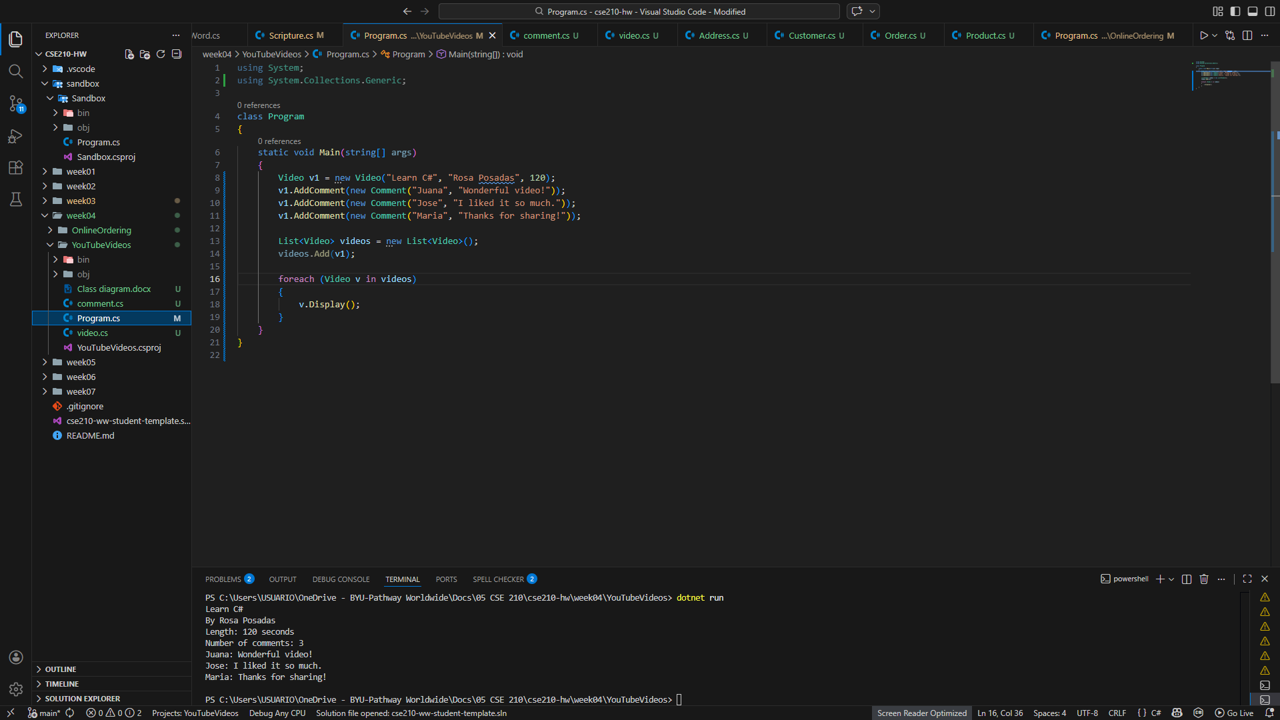
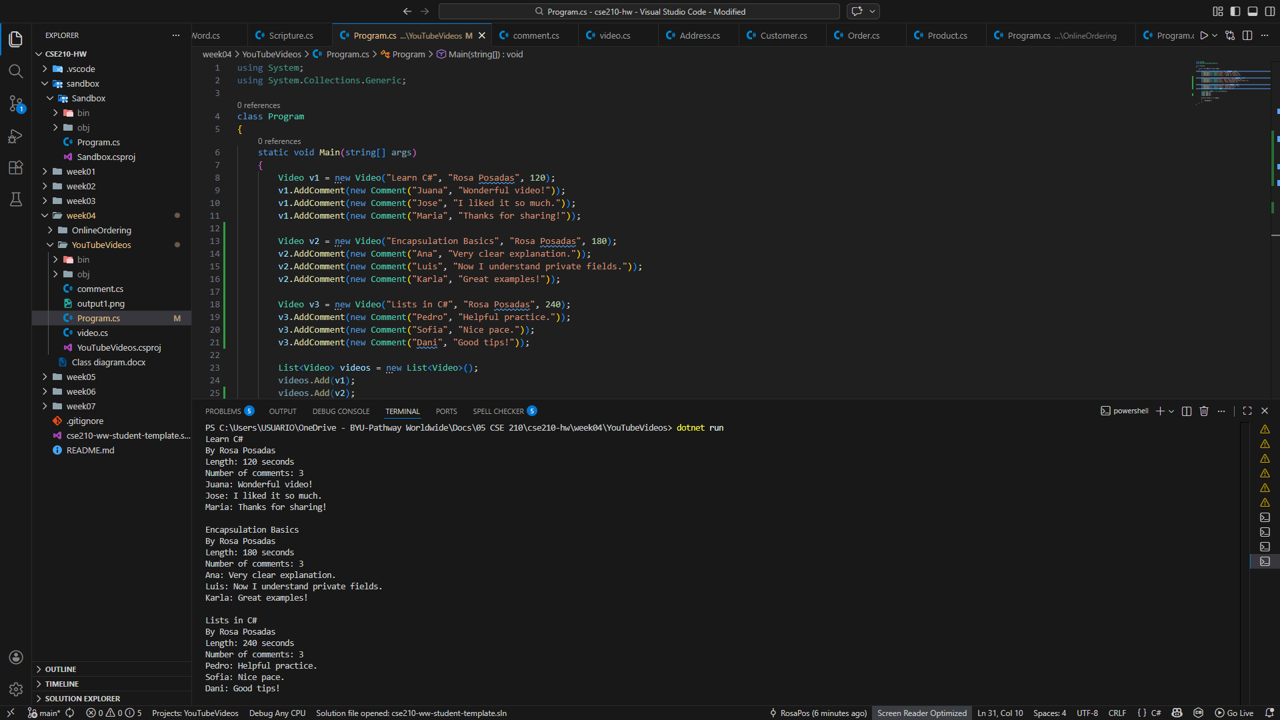
comments

diff --git a/week04/YouTubeVideos/Program.cs b/week04/YouTubeVideos/Program.cs
@@ -10,8 +10,20 @@ class Program
         v1.AddComment(new Comment("Jose", "I liked it so much."));
         v1.AddComment(new Comment("Maria", "Thanks for sharing!"));
 
+        Video v2 = new Video("Encapsulation Basics", "Rosa Posadas", 180);
+        v2.AddComment(new Comment("Ana", "Very clear explanation."));
+        v2.AddComment(new Comment("Luis", "Now I understand private fields."));
+        v2.AddComment(new Comment("Karla", "Great examples!"));
+
+        Video v3 = new Video("Lists in C#", "Rosa Posadas", 240);
+        v3.AddComment(new Comment("Pedro", "Helpful practice."));
+        v3.AddComment(new Comment("Sofia", "Nice pace."));
+        v3.AddComment(new Comment("Dani", "Good tips!"));
+
         List<Video> videos = new List<Video>();
         videos.Add(v1);
+        videos.Add(v2);
+        videos.Add(v3);
 
         foreach (Video v in videos)
         {
